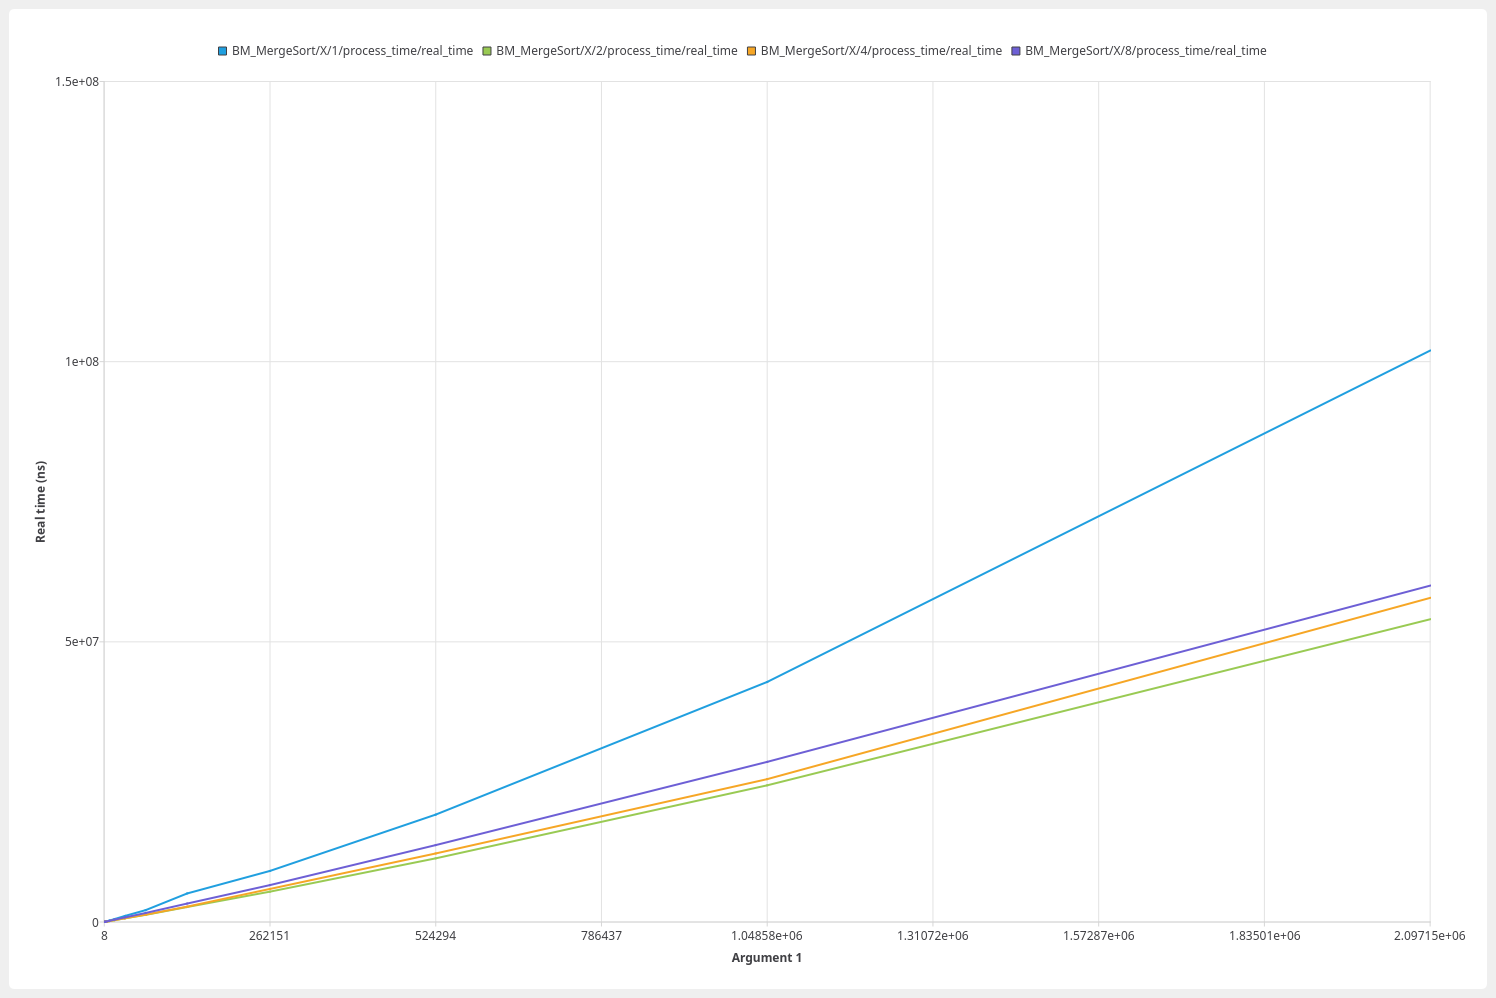
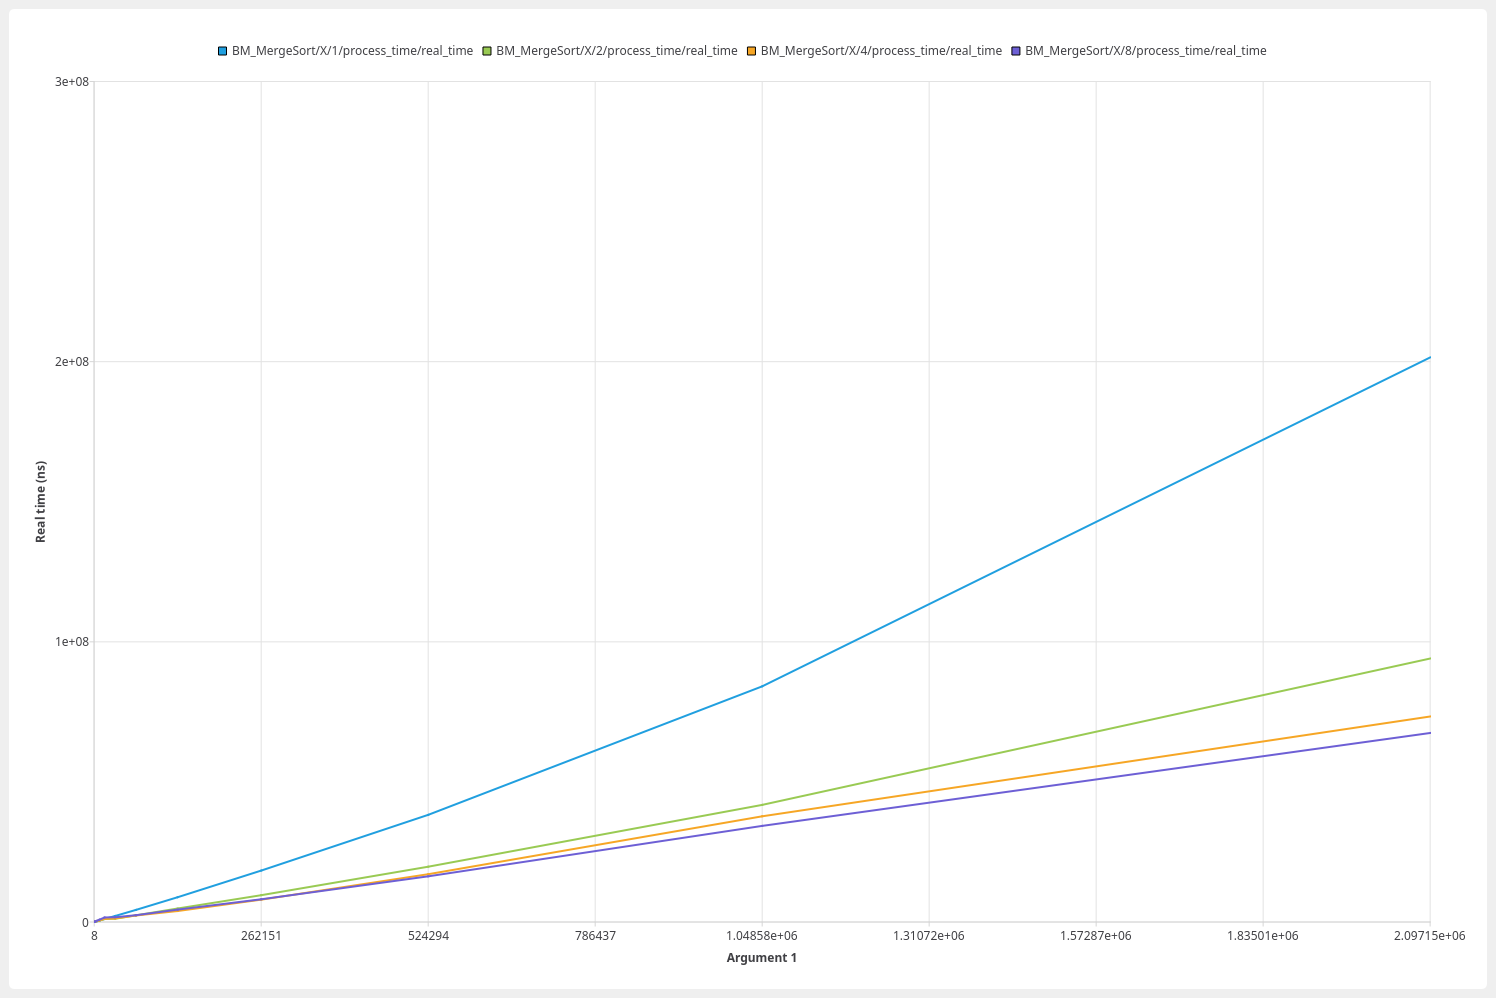
final result

diff --git a/src/basic_pmsort.cpp b/src/basic_pmsort.cpp
@@ -40,17 +40,12 @@ void parallel_merge_sort(std::vector<int> &arr, int left, int right,
 
   int mid = left + (right - left) / 2;
 
-  if (depth < 4) { 
-    /* limit the depth of parallelism to avoid oversubscription */
 #pragma omp taskgroup
-    {
-#pragma omp task shared(arr) untied if (right - left >= (1 << 4))
-      parallel_merge_sort(arr, left, mid, depth + 1);
-      parallel_merge_sort(arr, mid + 1, right, depth + 1);
-    }
-  } else {
-    // fallback sequential recursion
+  {
+#pragma omp task shared(arr) untied if (right - left >= (1 << 14))
     parallel_merge_sort(arr, left, mid, depth + 1);
+
+#pragma omp task shared(arr) untied if (right - left >= (1 << 14))
     parallel_merge_sort(arr, mid + 1, right, depth + 1);
   }
 

diff --git a/src/bench.cpp b/src/bench.cpp
@@ -20,7 +20,11 @@ static void BM_MergeSort(benchmark::State &state) {
   omp_set_num_threads(state.range(1));
   for (auto _ : state) {
     std::vector<int> arr2(arr);
-    parallel_merge_sort(arr2, 0, len - 1);
+    #pragma omp parallel
+    {
+      #pragma omp single
+      parallel_merge_sort(arr, 0, arr.size() - 1, 0);
+    }
     benchmark::DoNotOptimize(arr2);
   }
 }
